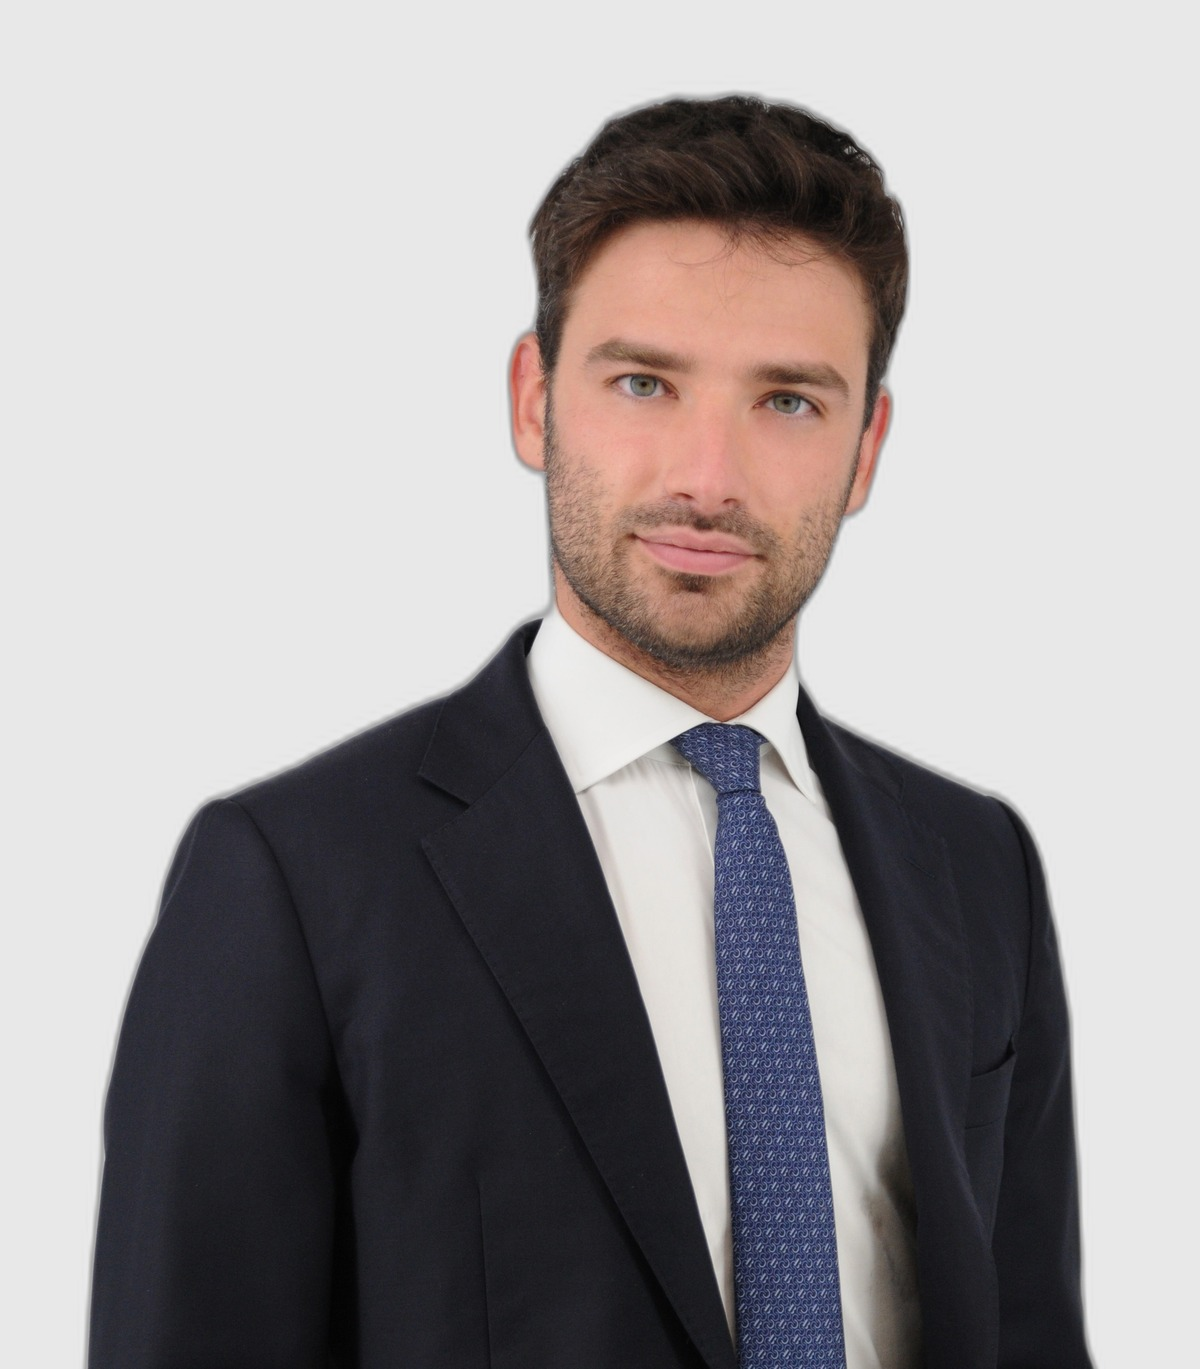
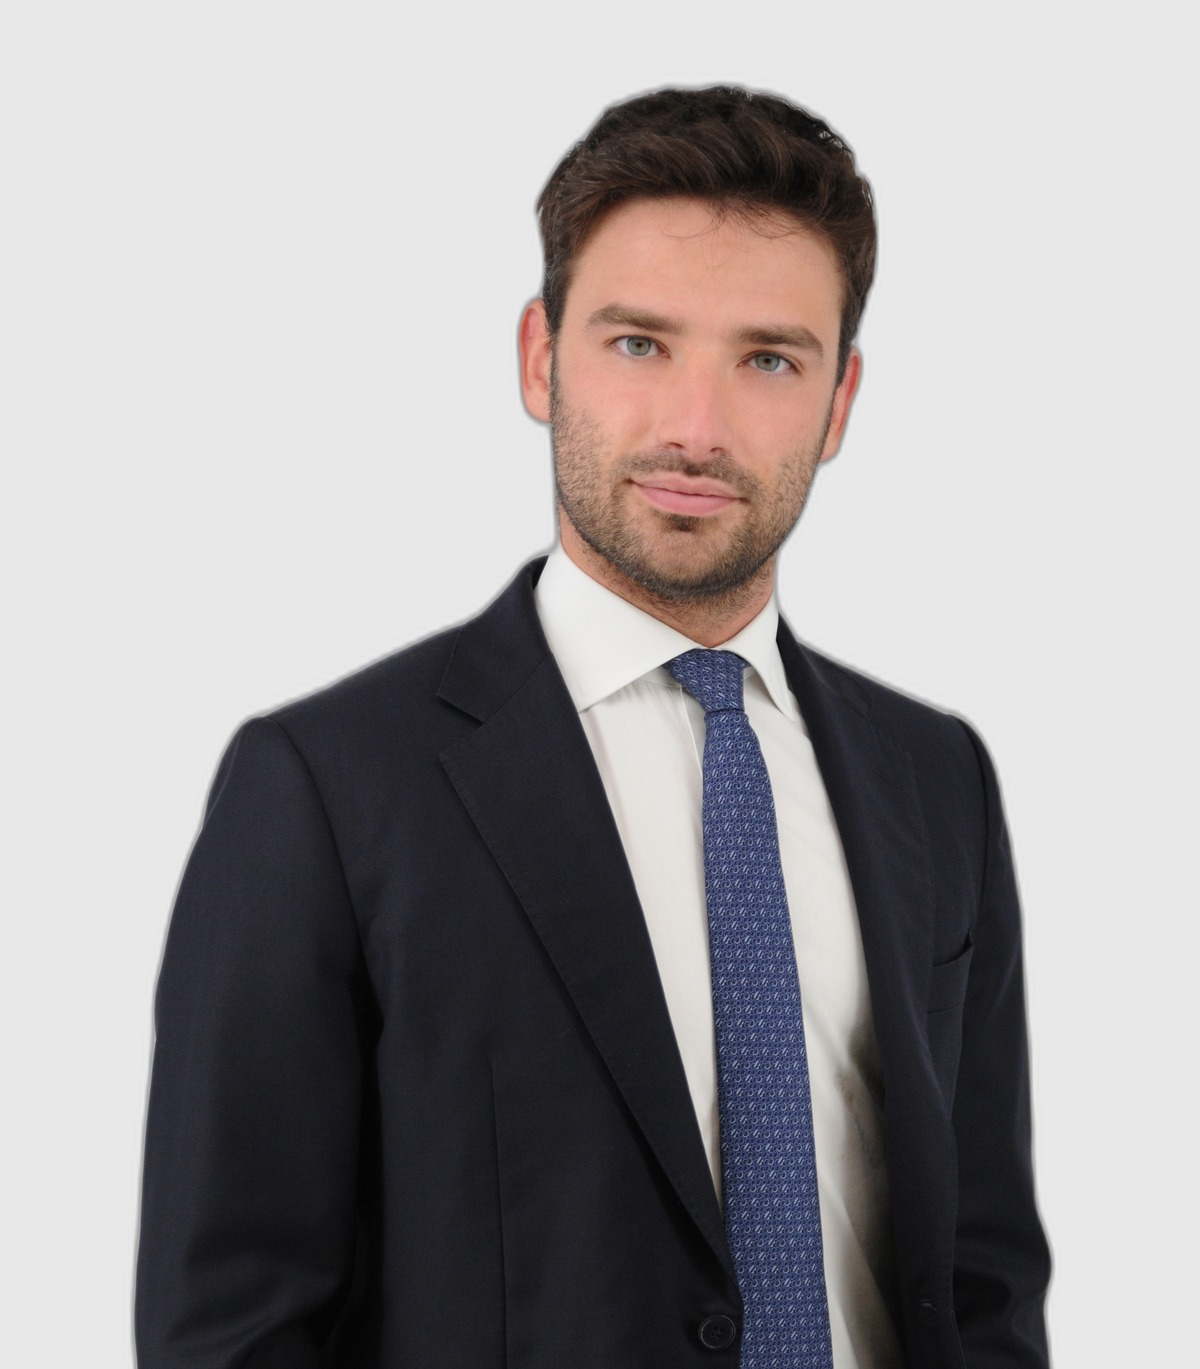
Fix Media sidebar: show all subsections; update Antonio & Alessandro photos
- Add showMedia() JS function: reveals Press Releases + Links & Media,
  scrolls to #news — all three sections visible under single Media entry
- Antonio: 80% crop, no y-offset (matches reference photo)
- Alessandro: zoomed out to full photo width

diff --git a/index-v2.html b/index-v2.html
@@ -57,7 +57,7 @@
     <a href="#team" data-it="Team" data-en="Team" onclick="showTeam(event);closeSidebar()">Team</a>
     <a href="#servizi"      data-it="Servizi"           data-en="Services"       onclick="closeSidebar()">Servizi</a>
     <a href="#track-record" data-it="Selected Transactions" data-en="Selected Transactions" onclick="closeSidebar()">Selected Transactions</a>
-    <a href="#news"         data-it="Media"               data-en="Media"                  onclick="closeSidebar()">Media</a>
+    <a href="#news"         data-it="Media"               data-en="Media"                  onclick="showMedia(event);closeSidebar()">Media</a>
     <a href="#partnership"  data-it="Partnership"          data-en="Partnerships"           onclick="showPartnership(event);closeSidebar()">Partnership</a>
     <a href="#join"         data-it="Lavora con Noi"   data-en="Join Our Team"  onclick="showJoin(event);closeSidebar()">Lavora con Noi</a>
     <a href="#contatti"     data-it="Contatti"          data-en="Contact"        onclick="closeSidebar()">Contatti</a>
@@ -1058,6 +1058,15 @@
     sub.style.display = 'block';
     setTimeout(function() {
       sub.scrollIntoView({ behavior: 'smooth' });
+    }, 10);
+  }
+
+  function showMedia(e) {
+    e.preventDefault();
+    document.getElementById('comunicati').style.display = 'block';
+    document.getElementById('link').style.display = 'block';
+    setTimeout(function() {
+      document.getElementById('news').scrollIntoView({ behavior: 'smooth' });
     }, 10);
   }
 
